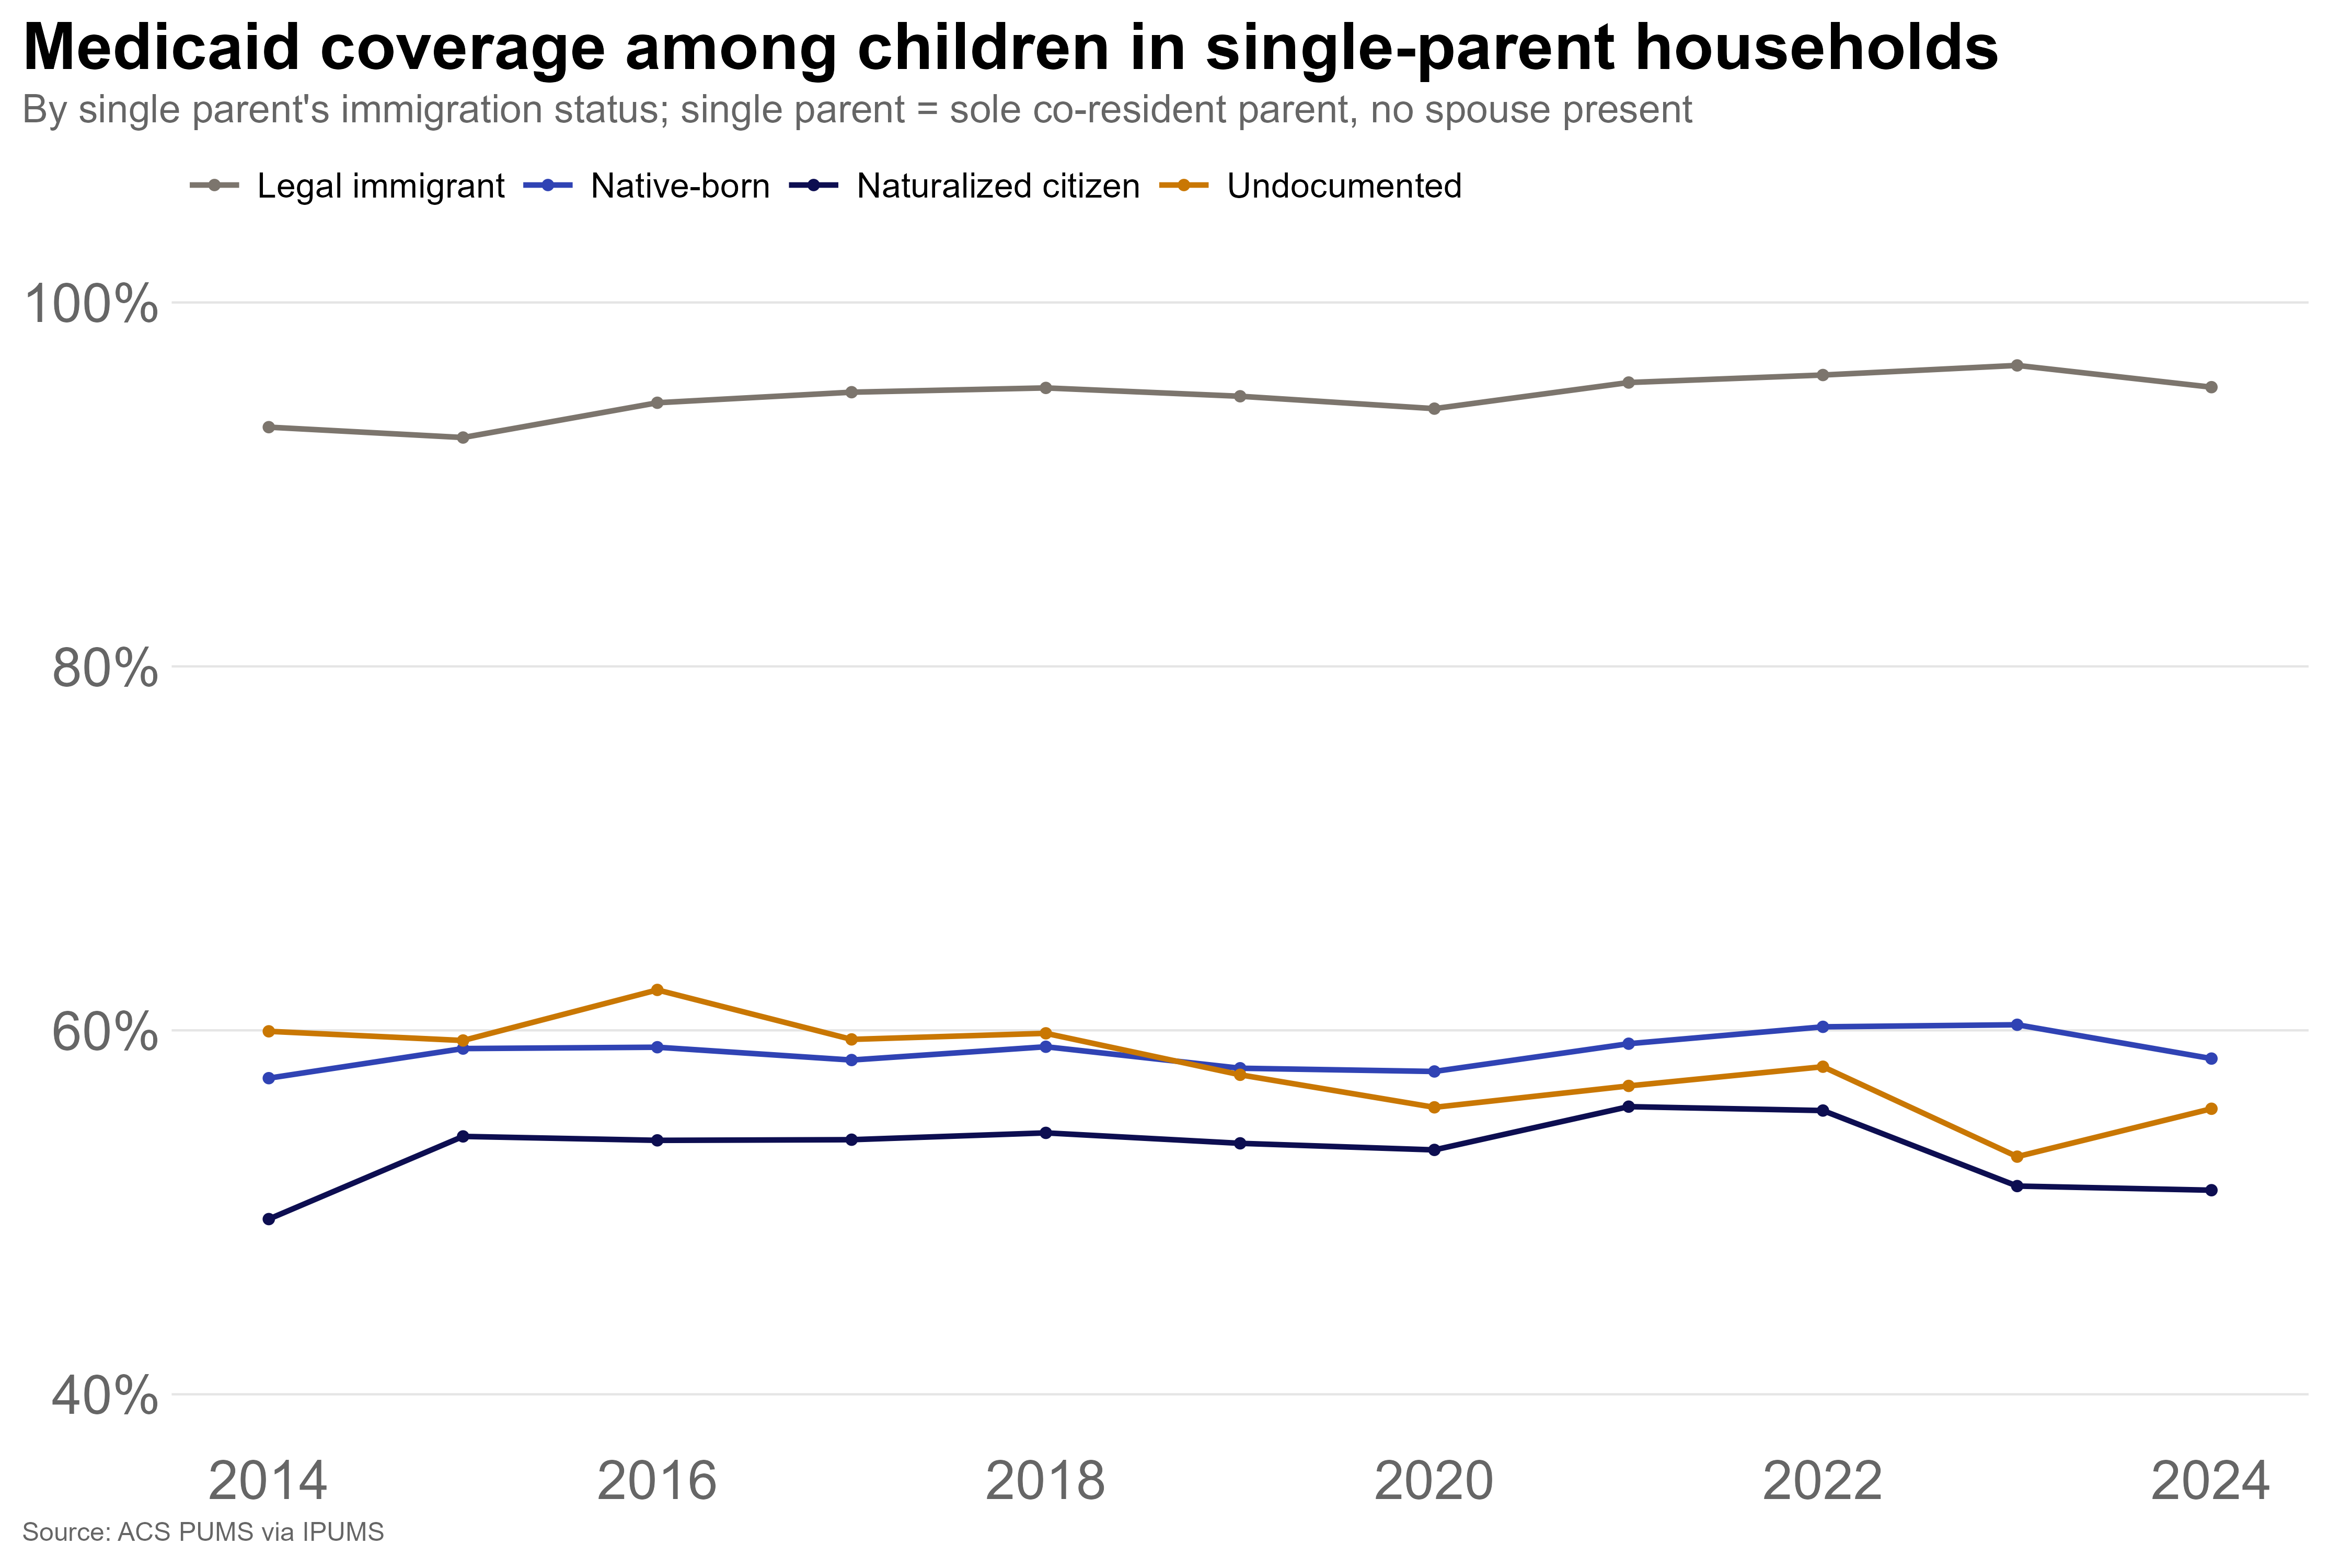
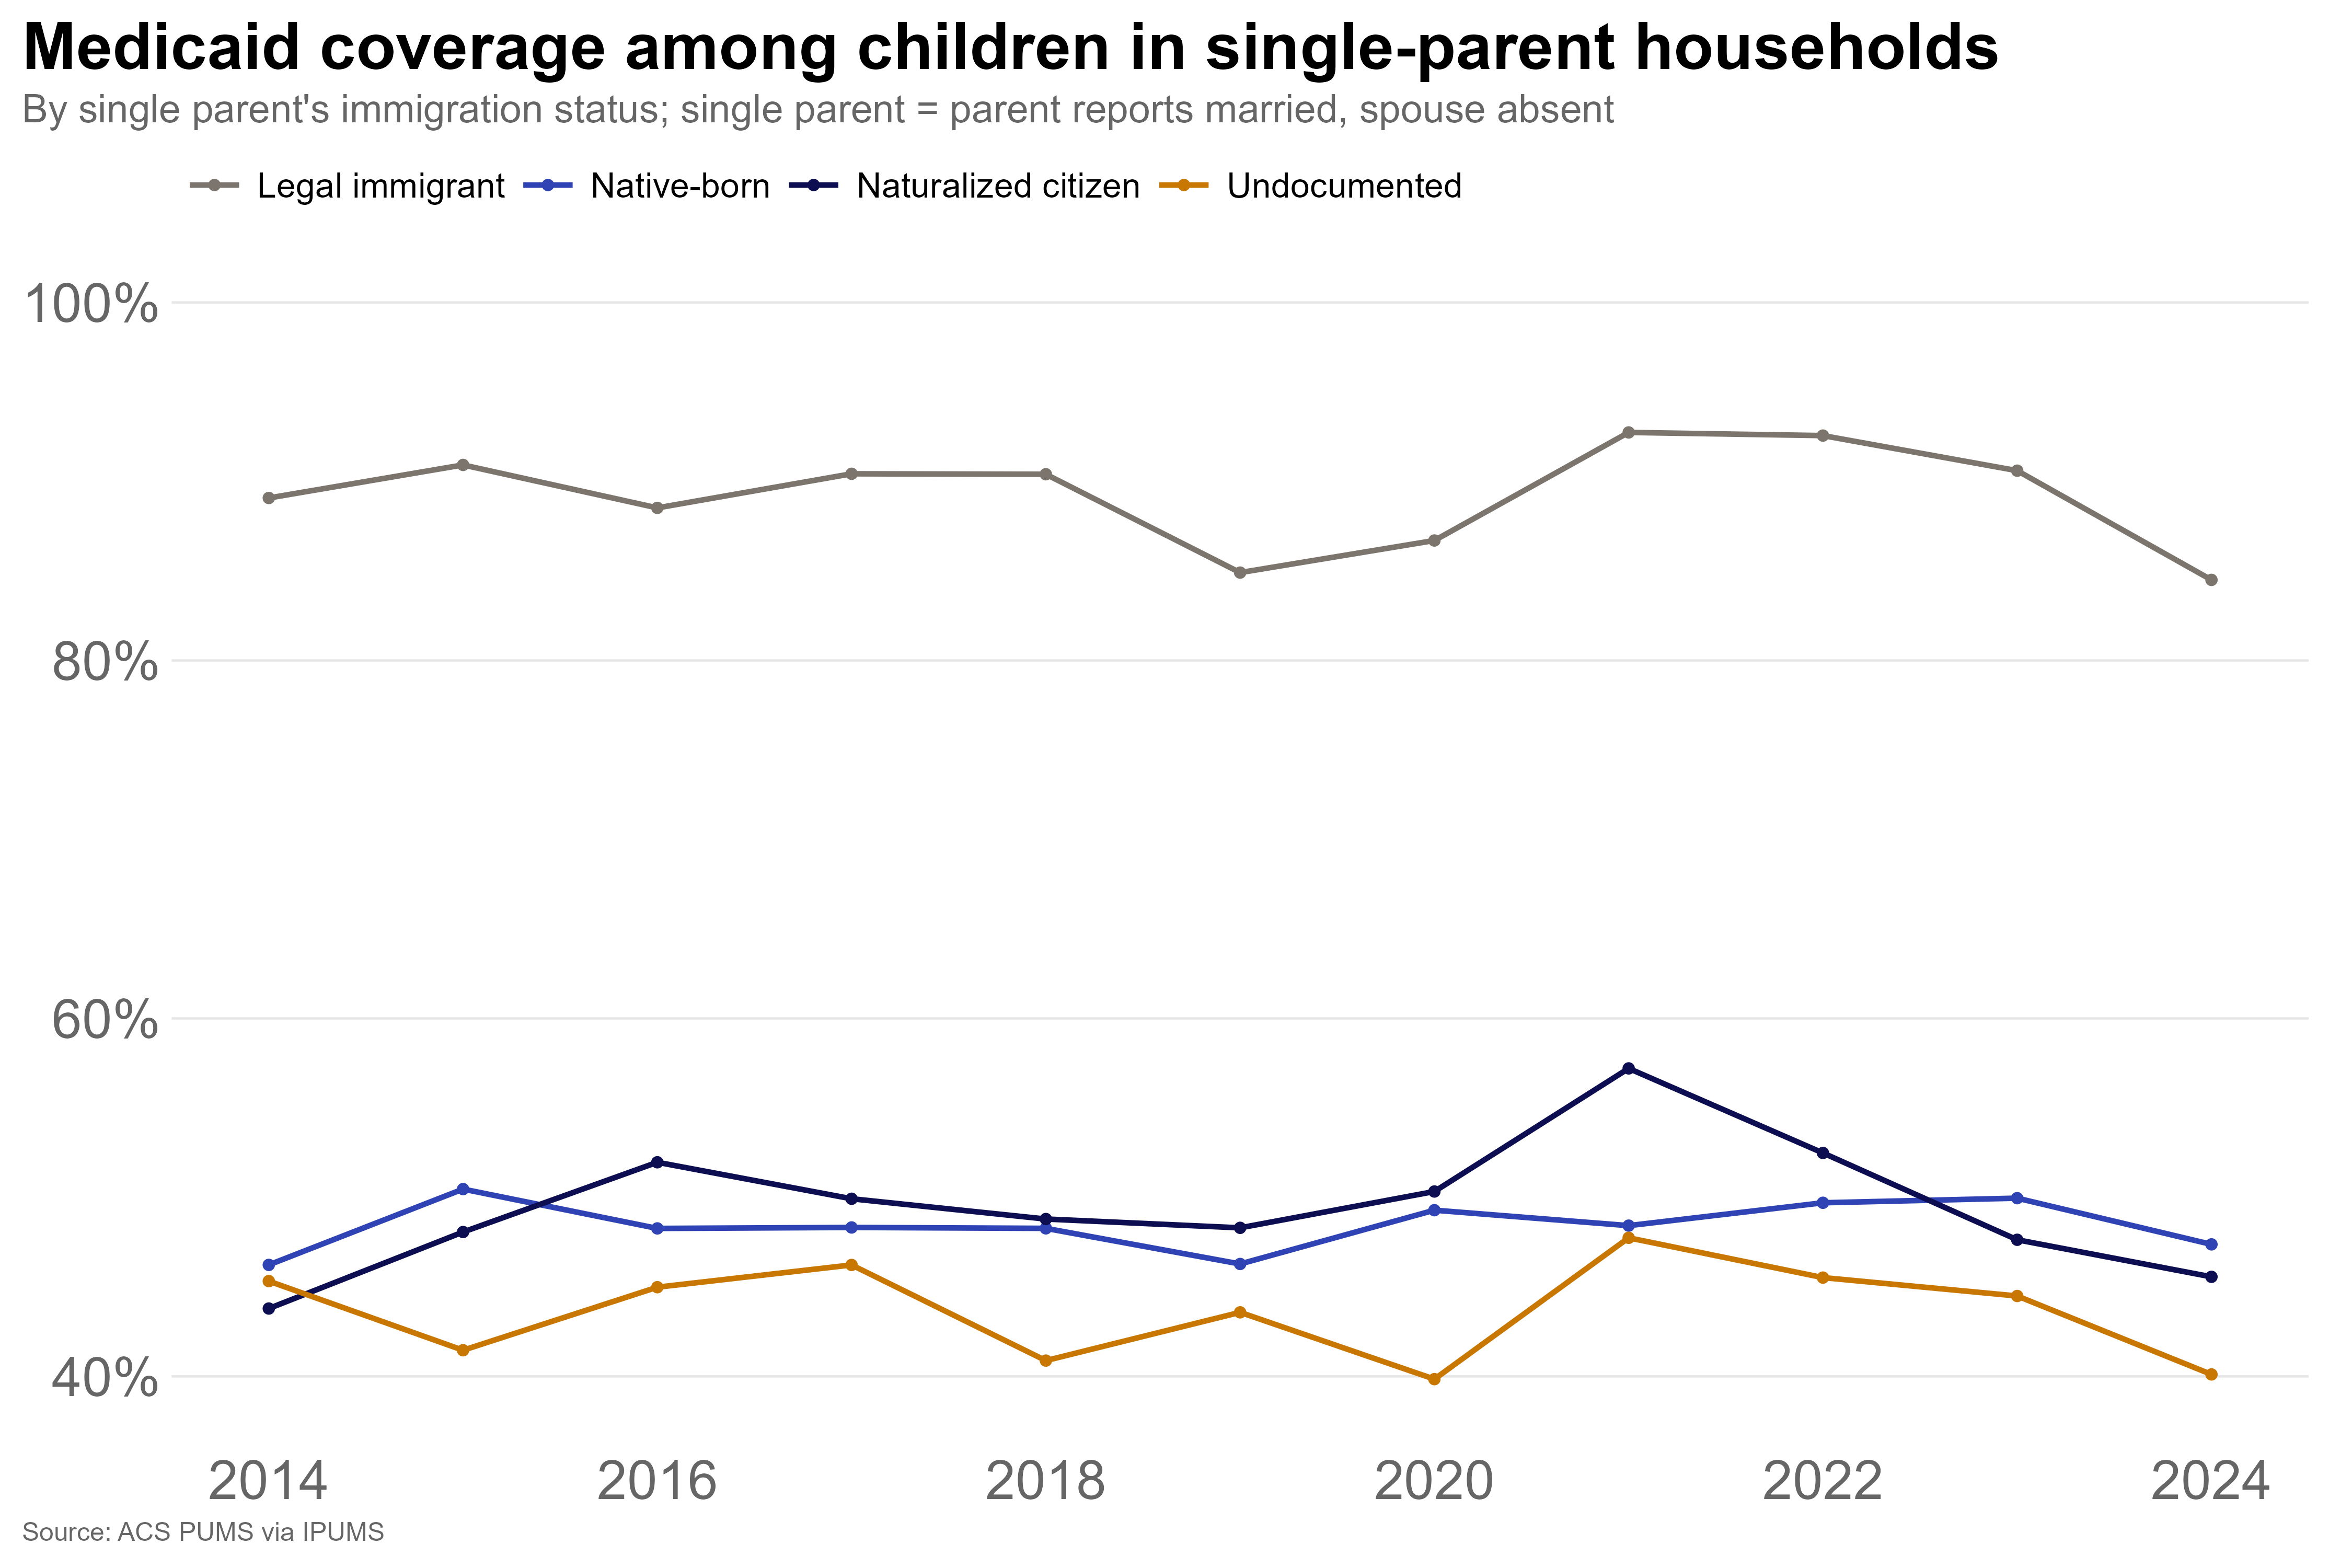
₍^.  ̫.^₎

diff --git a/index.html b/index.html
@@ -745,14 +745,26 @@ acs = acs <span class="tok-op">%&gt;%</span>
         <img src="results/one_undoc_parent_composition.png" alt="Children with one undocumented parent, by other parent's status">
         <figcaption><span class="fig-num">Fig. 30</span> Children with one undocumented parent, by other parent's status</figcaption>
       </figure>
-      <figure class="fig-single">
-        <img src="results/medicaid_kids_by_undoc_parent_marital_status.png" alt="Medicaid coverage among children of undocumented parents, by parent's marital status">
-        <figcaption><span class="fig-num">Fig. 31</span> Medicaid coverage among children of undocumented parents, by parent's marital status</figcaption>
-      </figure>
-      <figure class="fig-single">
-        <img src="results/medicaid_single_parent_by_immig_status.png" alt="Medicaid coverage among children in single-parent households, by parent's immigration status">
-        <figcaption><span class="fig-num">Fig. 32</span> Medicaid coverage among children in single-parent households, by parent's immigration status</figcaption>
-      </figure>
+      <div class="fig-grid">
+        <figure>
+          <img src="results/medicaid_kids_by_undoc_parent_marital_status.png" alt="Medicaid coverage among children of undocumented parents, by parent's marital status">
+          <figcaption><span class="fig-num">Fig. 31</span> Medicaid coverage among children of undocumented parents, by parent's marital status</figcaption>
+        </figure>
+        <figure>
+          <img src="results/medicaid_single_parent_by_immig_status.png" alt="Medicaid coverage among children of spouse-absent parents, by parent's immigration status">
+          <figcaption><span class="fig-num">Fig. 32</span> Medicaid coverage among children of spouse-absent parents, by parent's immigration status</figcaption>
+        </figure>
+      </div>
+      <div class="fig-grid">
+        <figure>
+          <img src="results/marst2_rate_by_immig_status.png" alt="Share of parents with spouse absent, by immigration status">
+          <figcaption><span class="fig-num">Fig. 33</span> Share of parents with spouse absent, by immigration status</figcaption>
+        </figure>
+        <figure>
+          <img src="results/marst2_rate_by_immig_status_parents.png" alt="Share of parents with spouse absent, by immigration status, parent-level">
+          <figcaption><span class="fig-num">Fig. 34</span> Share of parents with spouse absent, by immigration status (parent-level)</figcaption>
+        </figure>
+      </div>
     </section>
 
     <section id="cps-overview">